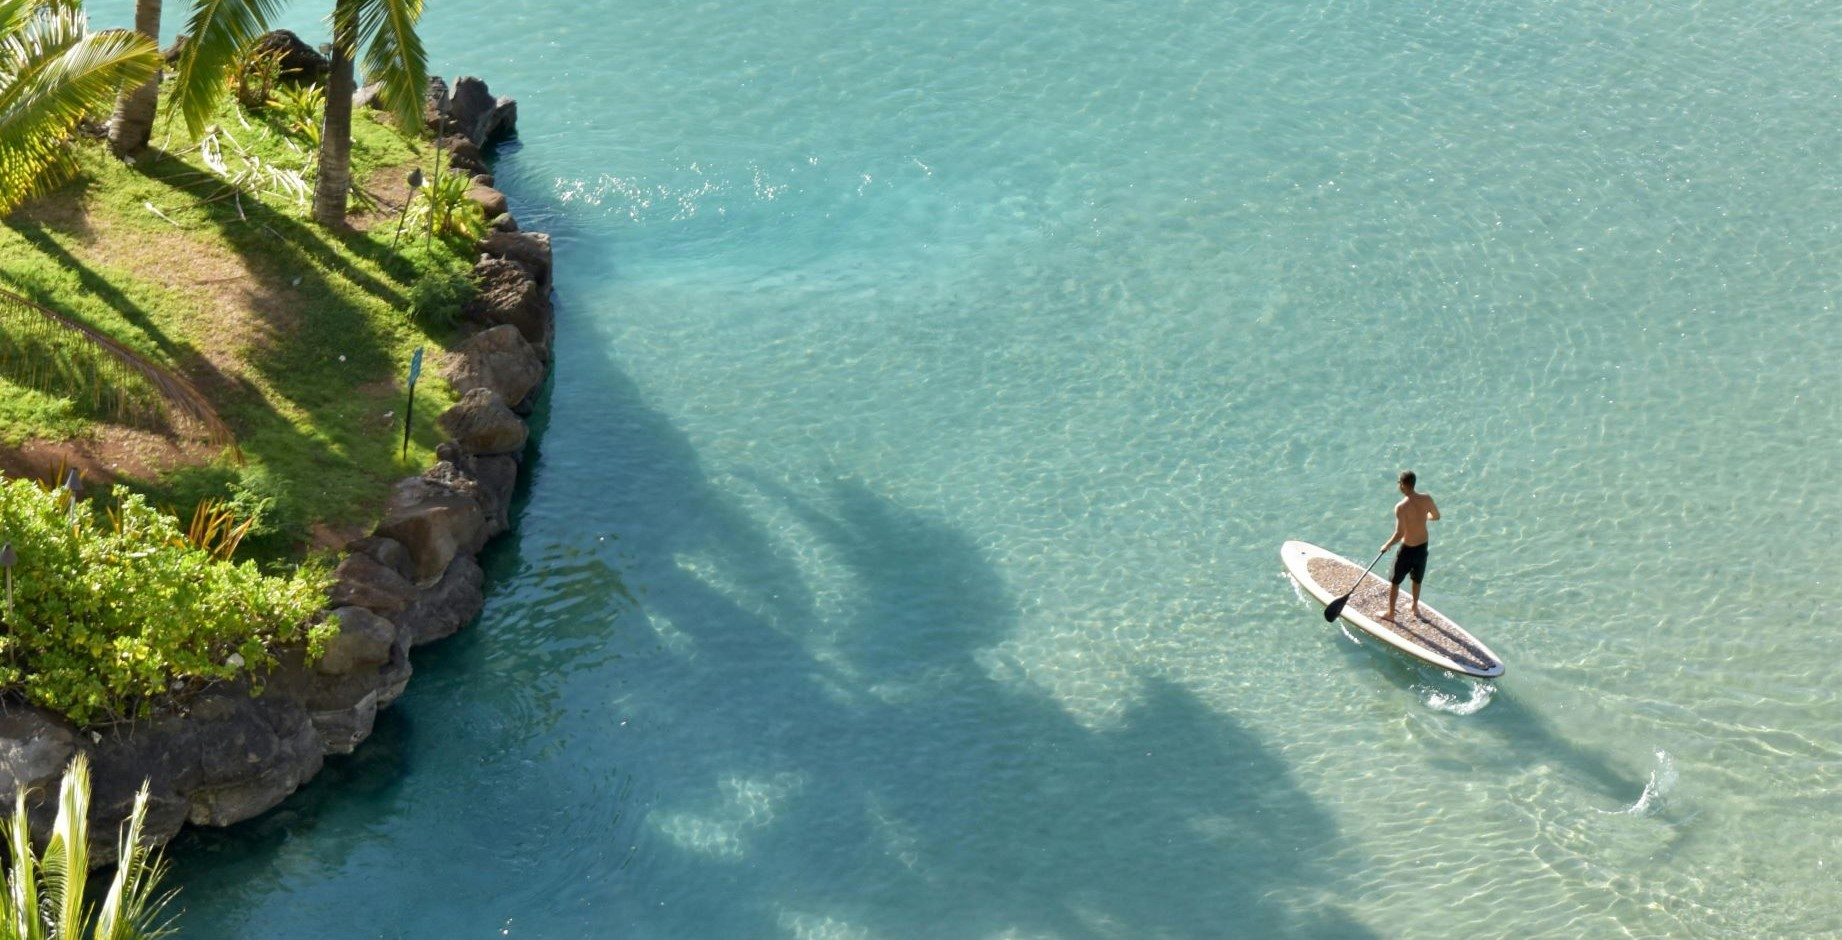
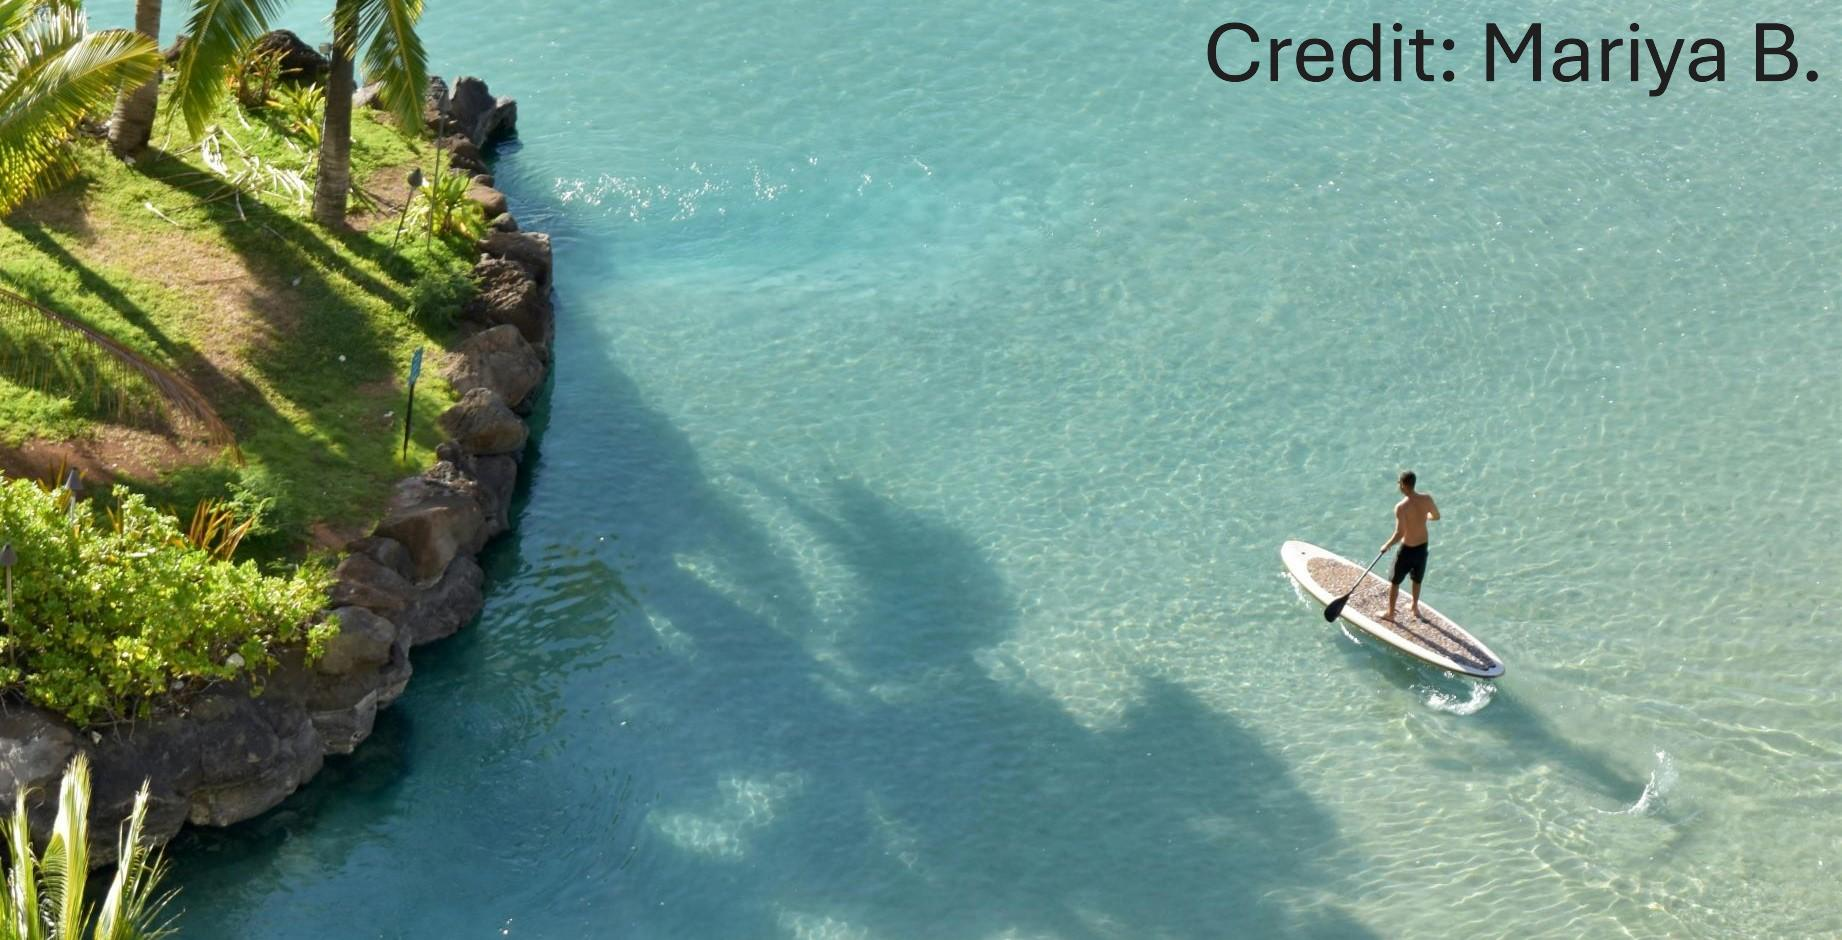
Photo credits and typo fixes

Changed region(s): [[0.6498, 0.0, 0.9902, 0.0926]]

diff --git a/src/attractions.js b/src/attractions.js
@@ -49,7 +49,7 @@ export default function Attractions() {
                         <p>
                             The lush raiforests of Taniti offer plenty of excitement for any intrepid
                             tourists. There are many hiking trails through the forest, along
-                            with a few popular ziplinging spots. Tourists looking to hike through the
+                            with a few popular ziplining spots. Tourists looking to hike through the
                             forest should prepare plenty of bug repellant. 
                         </p>
                     </div>
@@ -59,7 +59,7 @@ export default function Attractions() {
                     <div className='attractions-content'>
                         <img src='palm-trees-golf.jpg' className='attraction-image'/>
                         <p>
-                            While still under construction, within the next year a Nine-hole Golf Course
+                            While still under construction, within the next year a nine-hole golf course
                             will be opening up right near Merriton Landing. Given the climate, 
                             the course will be operational all year long.
                         </p>

diff --git a/src/accommodations.js b/src/accommodations.js
@@ -12,7 +12,7 @@ export default function Accommodations() {
                 All types of lodging are strictly regulated and regularly inspected by the Tanitian government.
             </Collapse>
             <Collapse isExpanded={false} title={'Dining'}>
-                Taniti currently has 10 restaurants: five serve mostly local fish and rice, three serve American-style meals, and two serve Pan-Asian cuisine.
+                Taniti currently has 10 restaurants. Five of them serve mostly local fish and rice, three serve American-style meals, and two serve Pan-Asian cuisine.
                 Alongside the restaurants, Taniti has two supermarkets, two smaller grocery stores, and one convenience store that is open 24 hours a day. 
             </Collapse>
             <Collapse isExpanded={false} title={'Getting Around the Island'}>

diff --git a/src/home.css b/src/home.css
@@ -34,6 +34,7 @@
     flex-direction: column;
     text-align: center;
     margin-bottom: 50px;
+    color: black;
 }
 
 .home-accommodations > h2 {
